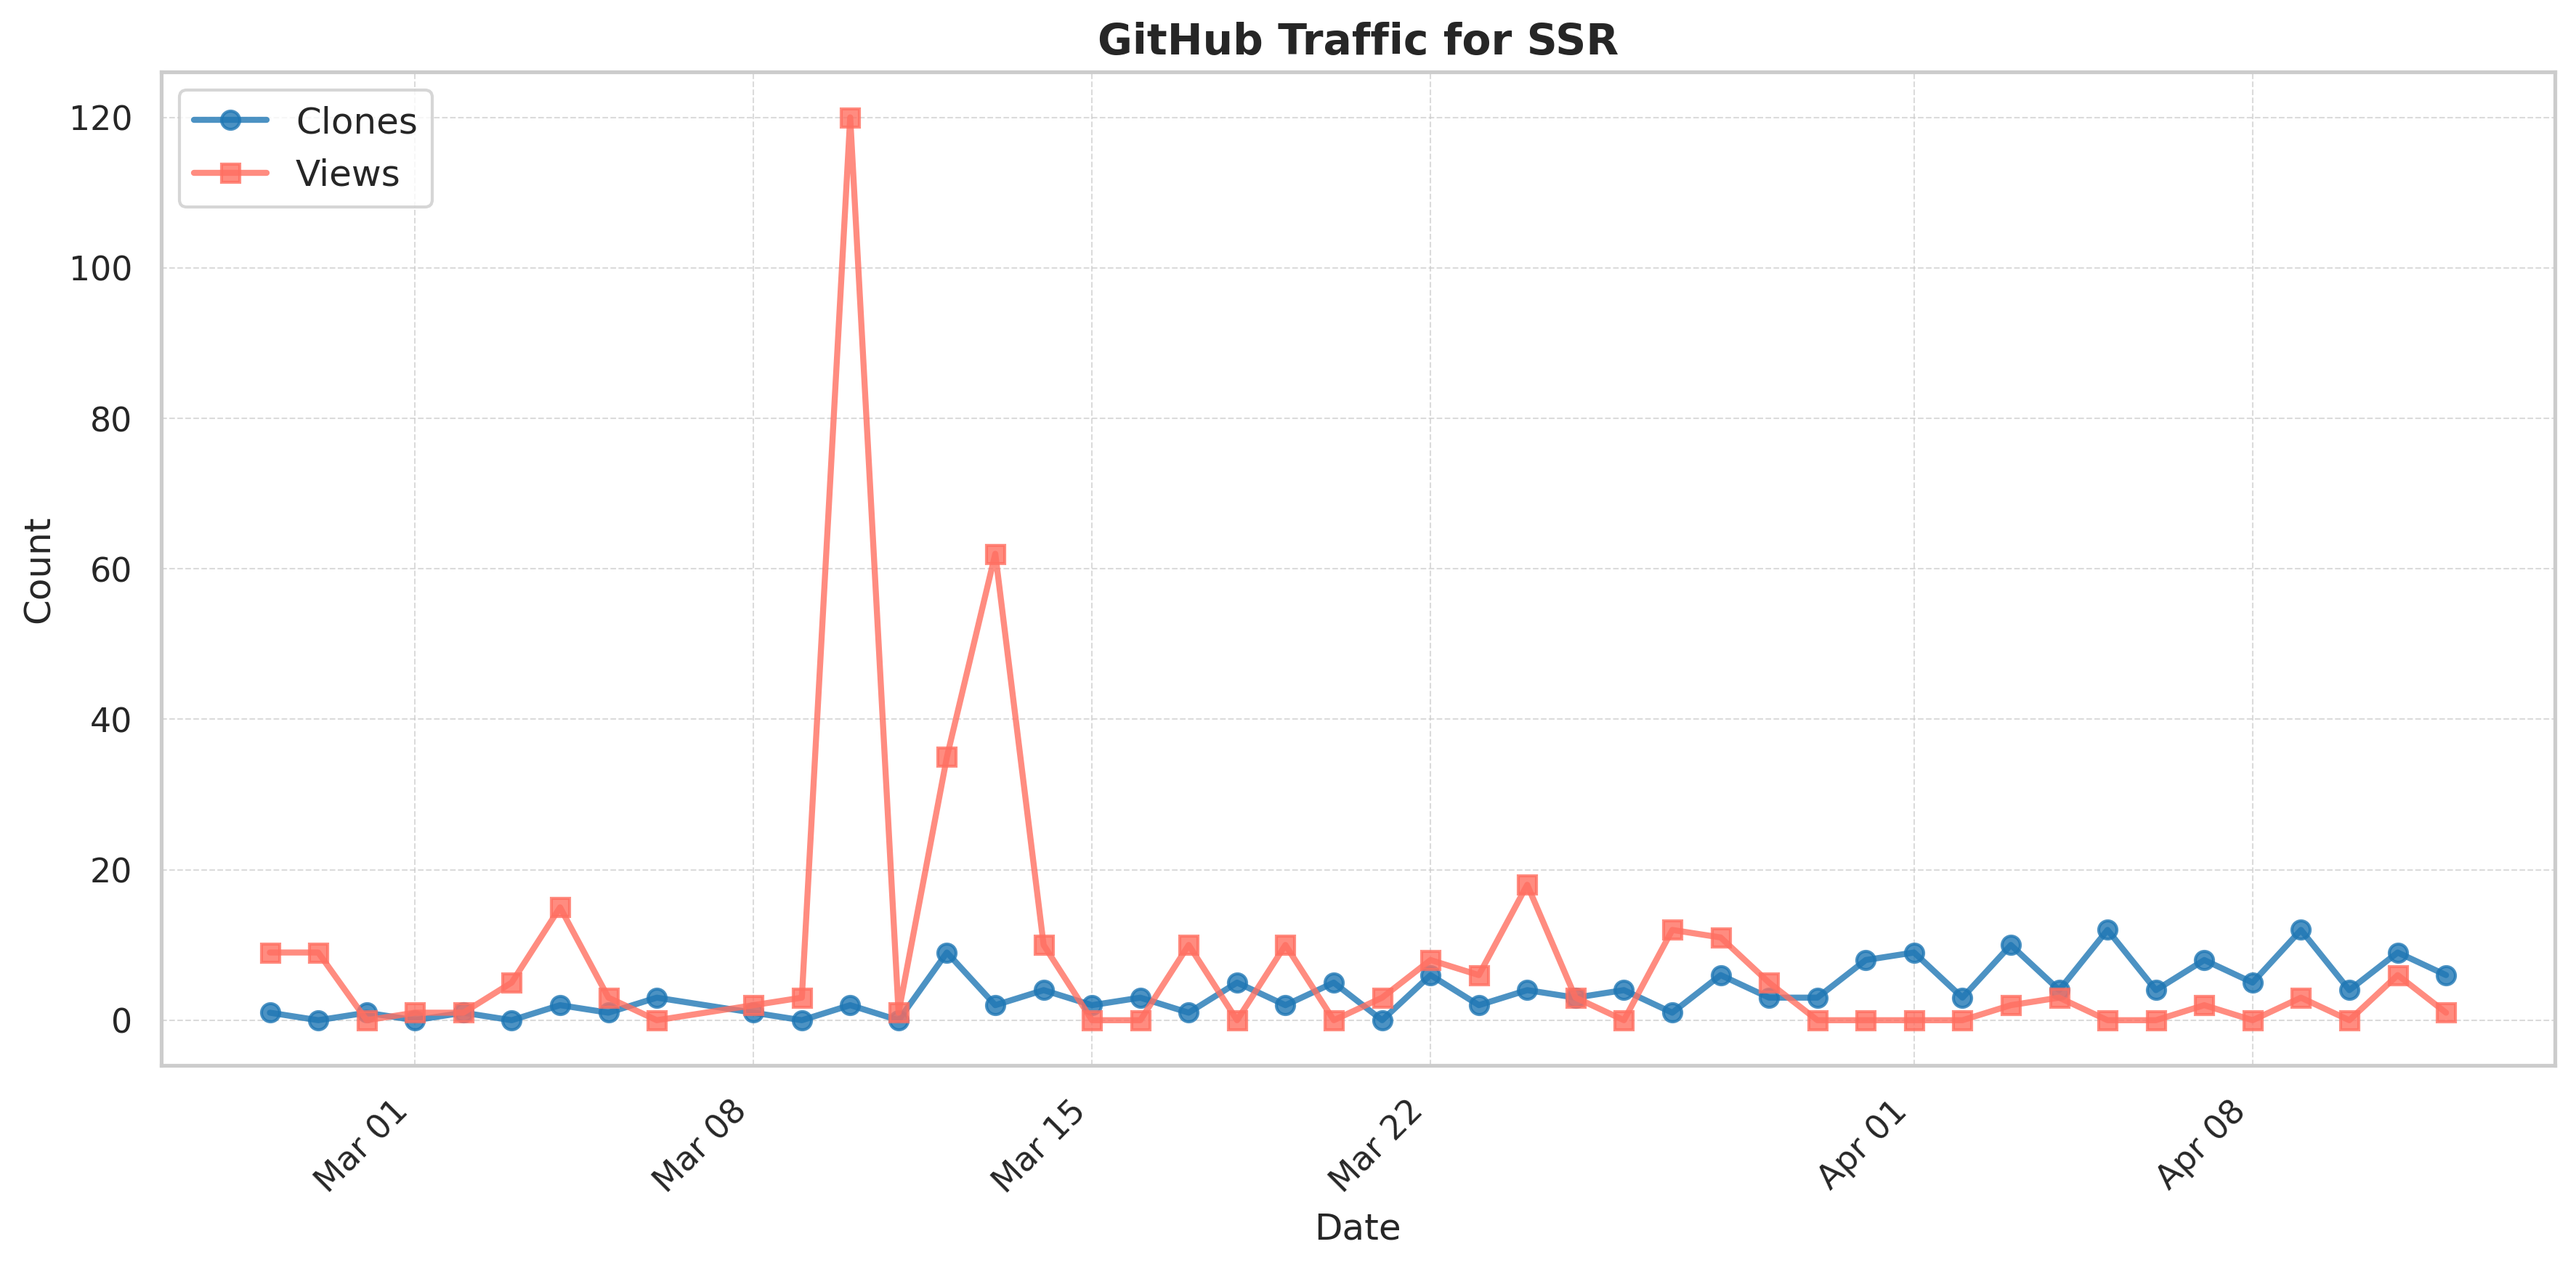
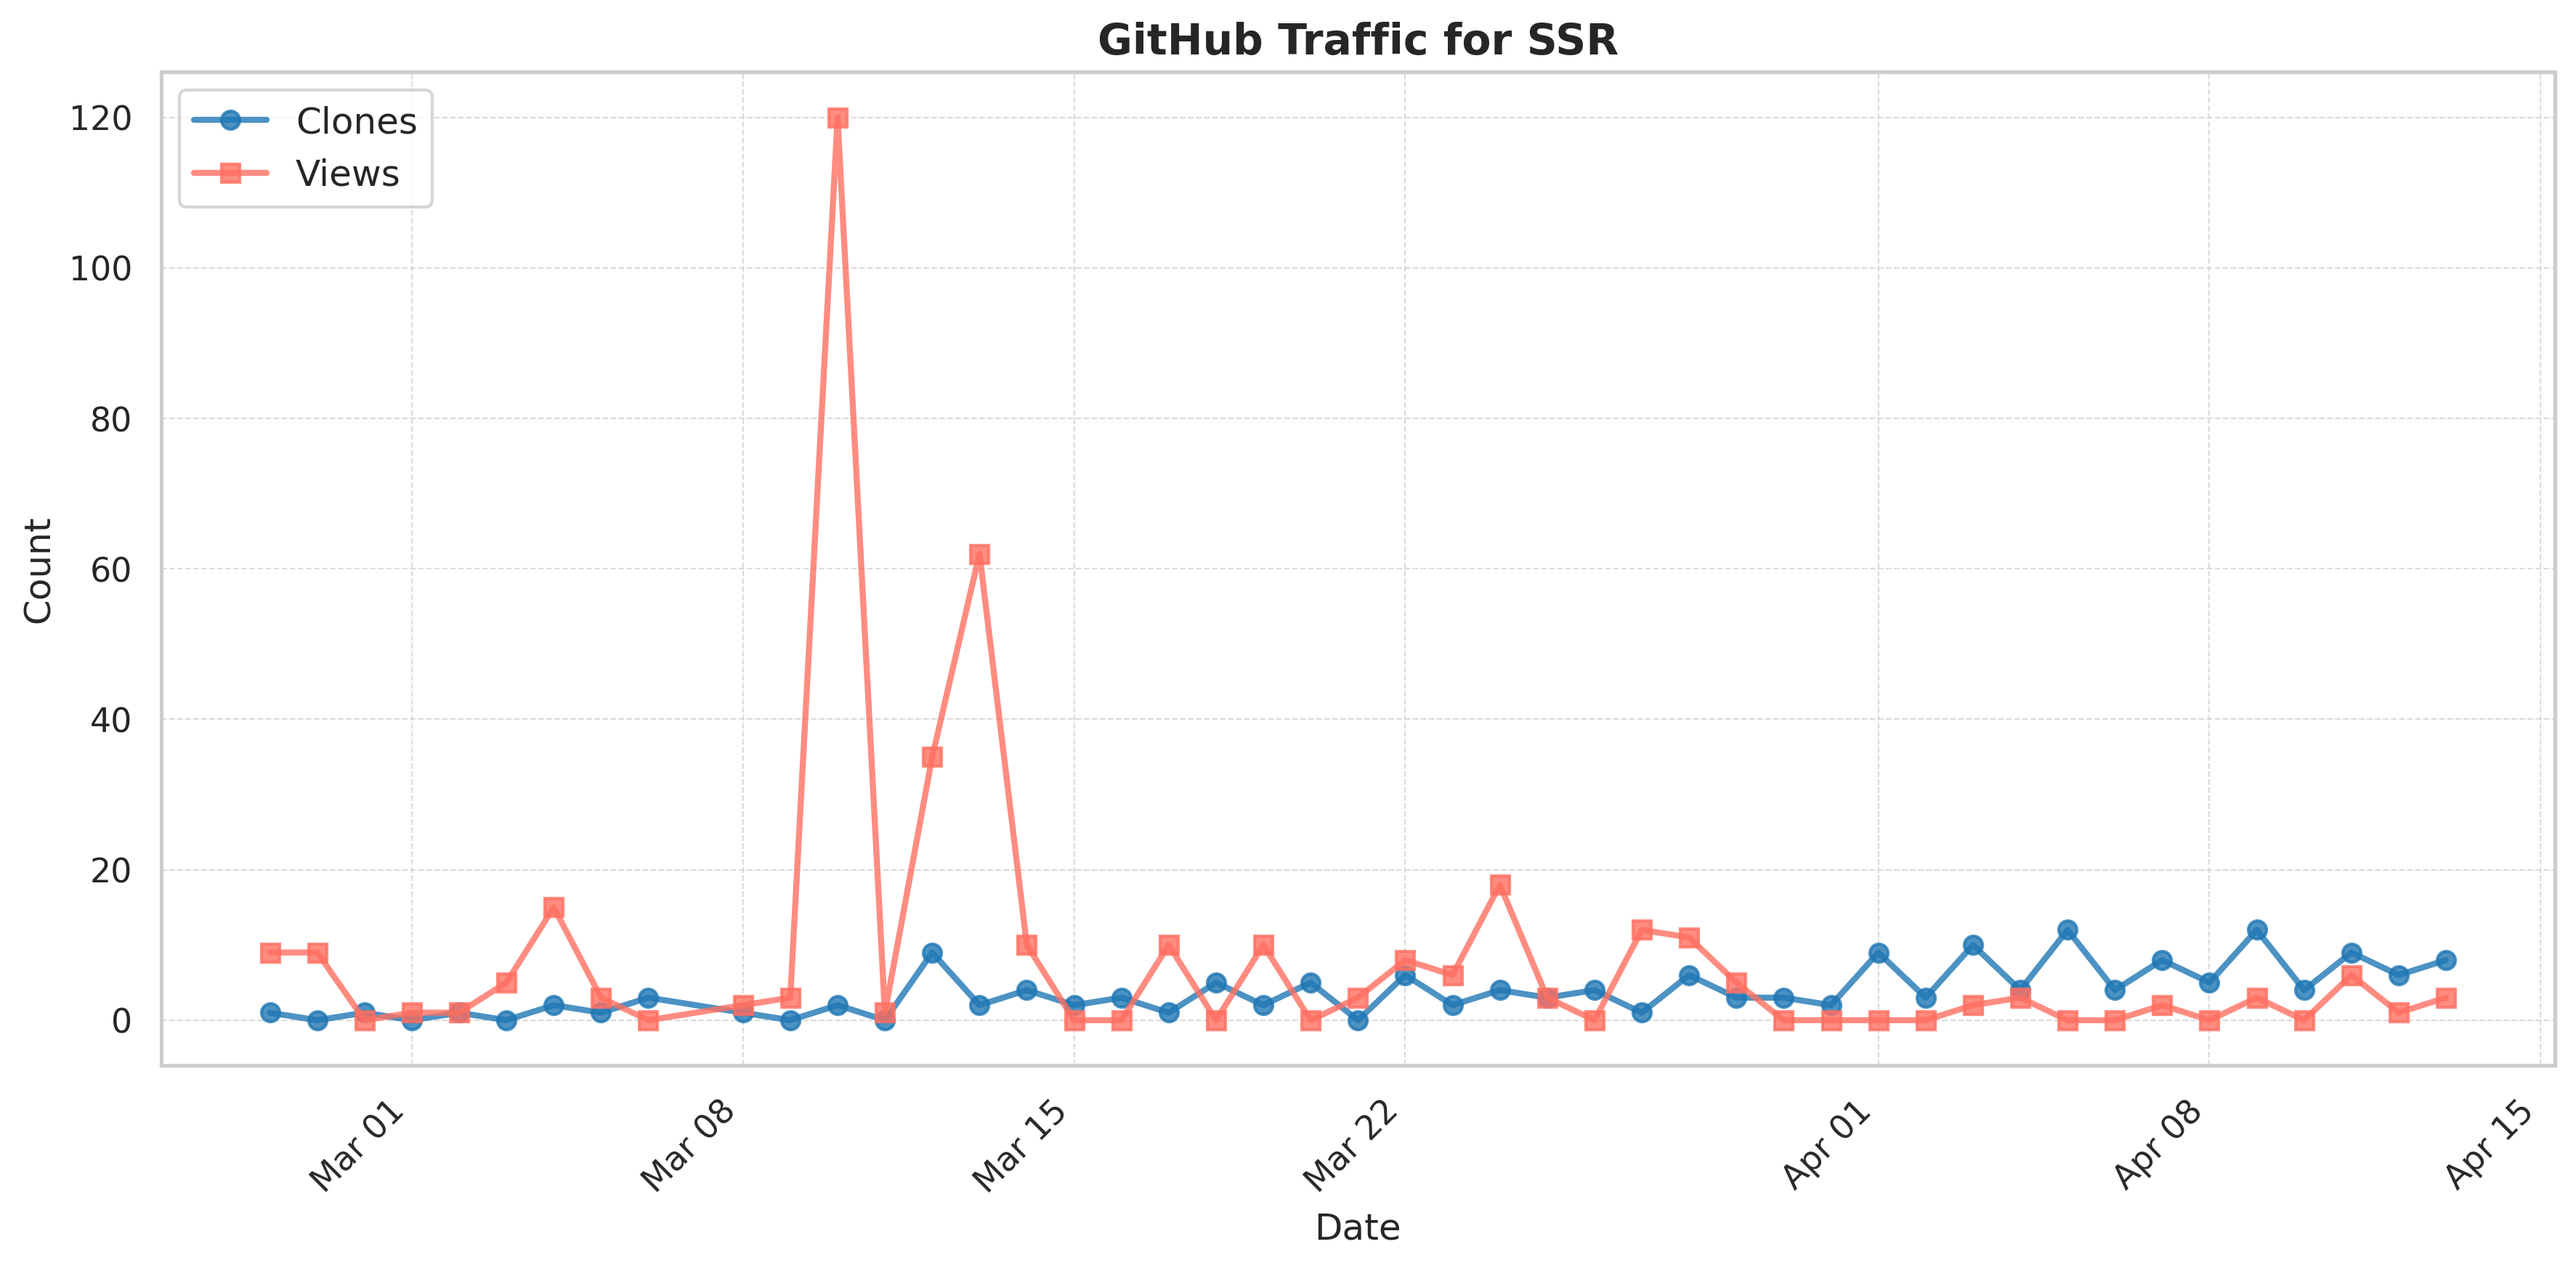
Auto-generated traffic_plot.png and plot_data.csv

diff --git a/README.md b/README.md
@@ -10,8 +10,8 @@ Faculty Collaborators: Professors Heng Huang (Maryland), Alex Jones (Syracuse), 
 
 ## 🚀 Thank You for Using SSR! ! !
 ### Your support and growing engagement inspire us to continually improve and enhance the project.
-+ Total Views since 02/26/2025: <!--VIEWS-->379<!--/VIEWS-->
-+ Total Downloads since 02/26/2025: <!--CLONES-->171<!--/CLONES-->
++ Total Views since 02/26/2025: <!--VIEWS-->382<!--/VIEWS-->
++ Total Downloads since 02/26/2025: <!--CLONES-->173<!--/CLONES-->
 <img src="./plot/SSR_traffic_plot.png" width="600" />
 
 ## ACM/IEEE Reference Format
